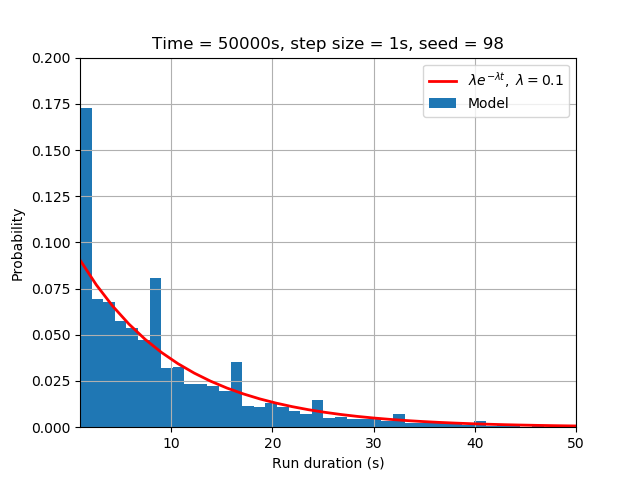
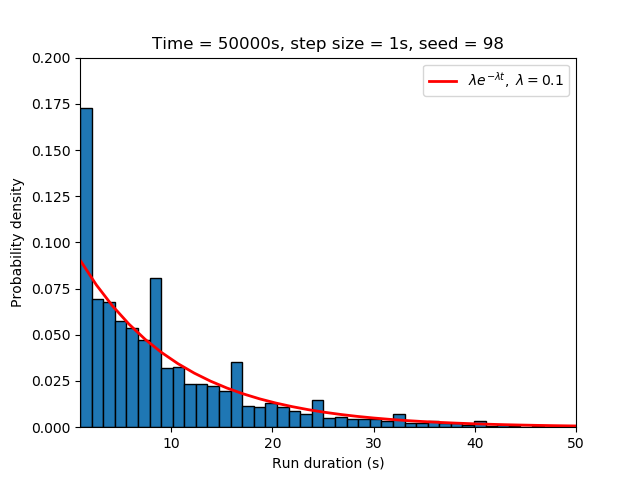
Tumble angle testing and plotting.

diff --git a/main.py b/main.py
@@ -1,5 +1,6 @@
 # external libraries
 import matplotlib.pyplot as plt
+import matplotlib.mlab as mlab
 import numpy as np
 
 # custom classes
@@ -73,19 +74,35 @@ for time in System.timesteps[1:]:
 
 print('Done')
 plt.title(System.title)
-plt.hist(swimmer.run_durations, bins='auto', density=True, label='Model')
+plt.hist(swimmer.run_durations, bins='auto', density=True, edgecolor='black')
 x=np.linspace(1,max(swimmer.run_durations),num=50)
 fit=0.1*np.exp(-0.1*x)
 plt.plot(x,fit,'r',lw=2,label='$\lambda e^{-\lambda t},\ \lambda=0.1$')
 plt.yscale('log')
 plt.ylim(0.001,1)
 plt.xlim(1,50)
-plt.ylabel('Probability')
+plt.ylabel('Probability density')
 plt.xlabel('Run duration (s)')
-plt.grid(True)
+#plt.grid(True)
 plt.legend()
 plt.savefig('test.png')
+plt.yscale('linear')
+plt.ylim(0,0.2)
+plt.savefig('test2.png')
 plt.close()
+
+ang=np.array(swimmer.tumble_angles)*(180.0/3.14159)
+plt.hist(ang, bins='auto', density=True, edgecolor='black')
+x=np.linspace(0,180,num=50)
+fit=mlab.normpdf(x,90,49)
+plt.plot(x,fit,'r',lw=2,label='Gaussian; $\mu=90^\circ$, $\sigma=49^\circ$')
+plt.xlim(0,180)
+plt.ylim(0,0.012)
+plt.ylabel('Probability density')
+plt.xlabel('Tumble angle between subsequent runs (deg)')
+#plt.grid(True)
+plt.legend()
+plt.savefig('angle.png')
 quit()
 
 # Create list of cell trajectories
